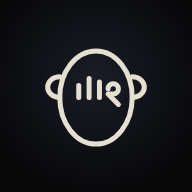
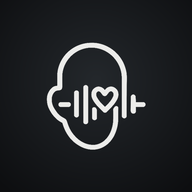
アイコンとアプリ内ロゴを本来の hearme ロゴに差し替え
Claude-Session: https://claude.ai/code/session_01Lth3TChM2Py81D2CMjY6rG

Changed region(s): [[0.2188, 0.2188, 0.7812, 0.7812]]

diff --git a/index.html b/index.html
@@ -257,15 +257,7 @@ body{font-family:'DM Sans',sans-serif;color:var(--tx);position:fixed;inset:0;}
   <div class="sp-wrap">
     <div class="sp-mark">
       <div class="sp-r"></div><div class="sp-r"></div><div class="sp-r"></div>
-      <svg width="66" height="66" viewBox="0 0 80 80" fill="none">
-        <ellipse cx="40" cy="38" rx="21" ry="27" stroke="#e5dfd2" stroke-width="1.8"/>
-        <path d="M19 38c-4 0-7-2.8-7-6s3-6 7-6" stroke="#e5dfd2" stroke-width="1.8" fill="none" stroke-linecap="round"/>
-        <path d="M61 38c4 0 7-2.8 7-6s-3-6-7-6" stroke="#e5dfd2" stroke-width="1.8" fill="none" stroke-linecap="round"/>
-        <line x1="30" y1="38" x2="30" y2="31" stroke="#e5dfd2" stroke-width="1.8" stroke-linecap="round"/>
-        <line x1="36" y1="38" x2="36" y2="27" stroke="#e5dfd2" stroke-width="1.8" stroke-linecap="round"/>
-        <line x1="42" y1="38" x2="42" y2="29" stroke="#e5dfd2" stroke-width="1.8" stroke-linecap="round"/>
-        <path d="M47 33c0-2 1.3-3 3-3s3 1.3 3 3-1.3 3-3 3h-3l6 6" stroke="#e5dfd2" stroke-width="1.7" fill="none" stroke-linecap="round" stroke-linejoin="round"/>
-      </svg>
+      <img src="/logo-mark.png" alt="" style="height:70px;width:auto;position:relative;">
     </div>
     <div class="syne" style="font-size:42px;font-weight:800;letter-spacing:-.05em;color:var(--cr);line-height:1;margin-bottom:8px;">hearme</div>
     <div style="font-size:11px;color:var(--tx3);letter-spacing:.18em;text-transform:uppercase;">音楽で気持ちを届ける</div>
@@ -362,7 +354,7 @@ body{font-family:'DM Sans',sans-serif;color:var(--tx);position:fixed;inset:0;}
   <div class="pg">
     <div class="hm-hd">
       <div style="display:flex;align-items:center;gap:8px;">
-        <svg width="15" height="15" viewBox="0 0 80 80" fill="none"><ellipse cx="40" cy="38" rx="21" ry="27" stroke="#e5dfd2" stroke-width="3"/><line x1="30" y1="38" x2="30" y2="31" stroke="#e5dfd2" stroke-width="3" stroke-linecap="round"/><line x1="36" y1="38" x2="36" y2="27" stroke="#e5dfd2" stroke-width="3" stroke-linecap="round"/><line x1="42" y1="38" x2="42" y2="29" stroke="#e5dfd2" stroke-width="3" stroke-linecap="round"/></svg>
+        <img src="/logo-mark.png" alt="" style="height:20px;width:auto;">
         <span class="syne" style="font-size:17px;font-weight:800;letter-spacing:-.04em;">hearme</span>
         <div style="display:inline-flex;align-items:center;gap:4px;background:rgba(255,95,126,.08);border:1px solid rgba(255,95,126,.18);border-radius:20px;padding:2px 8px;font-size:9px;font-weight:700;color:var(--rs);"><span class="ld"></span>LIVE</div>
       </div>
